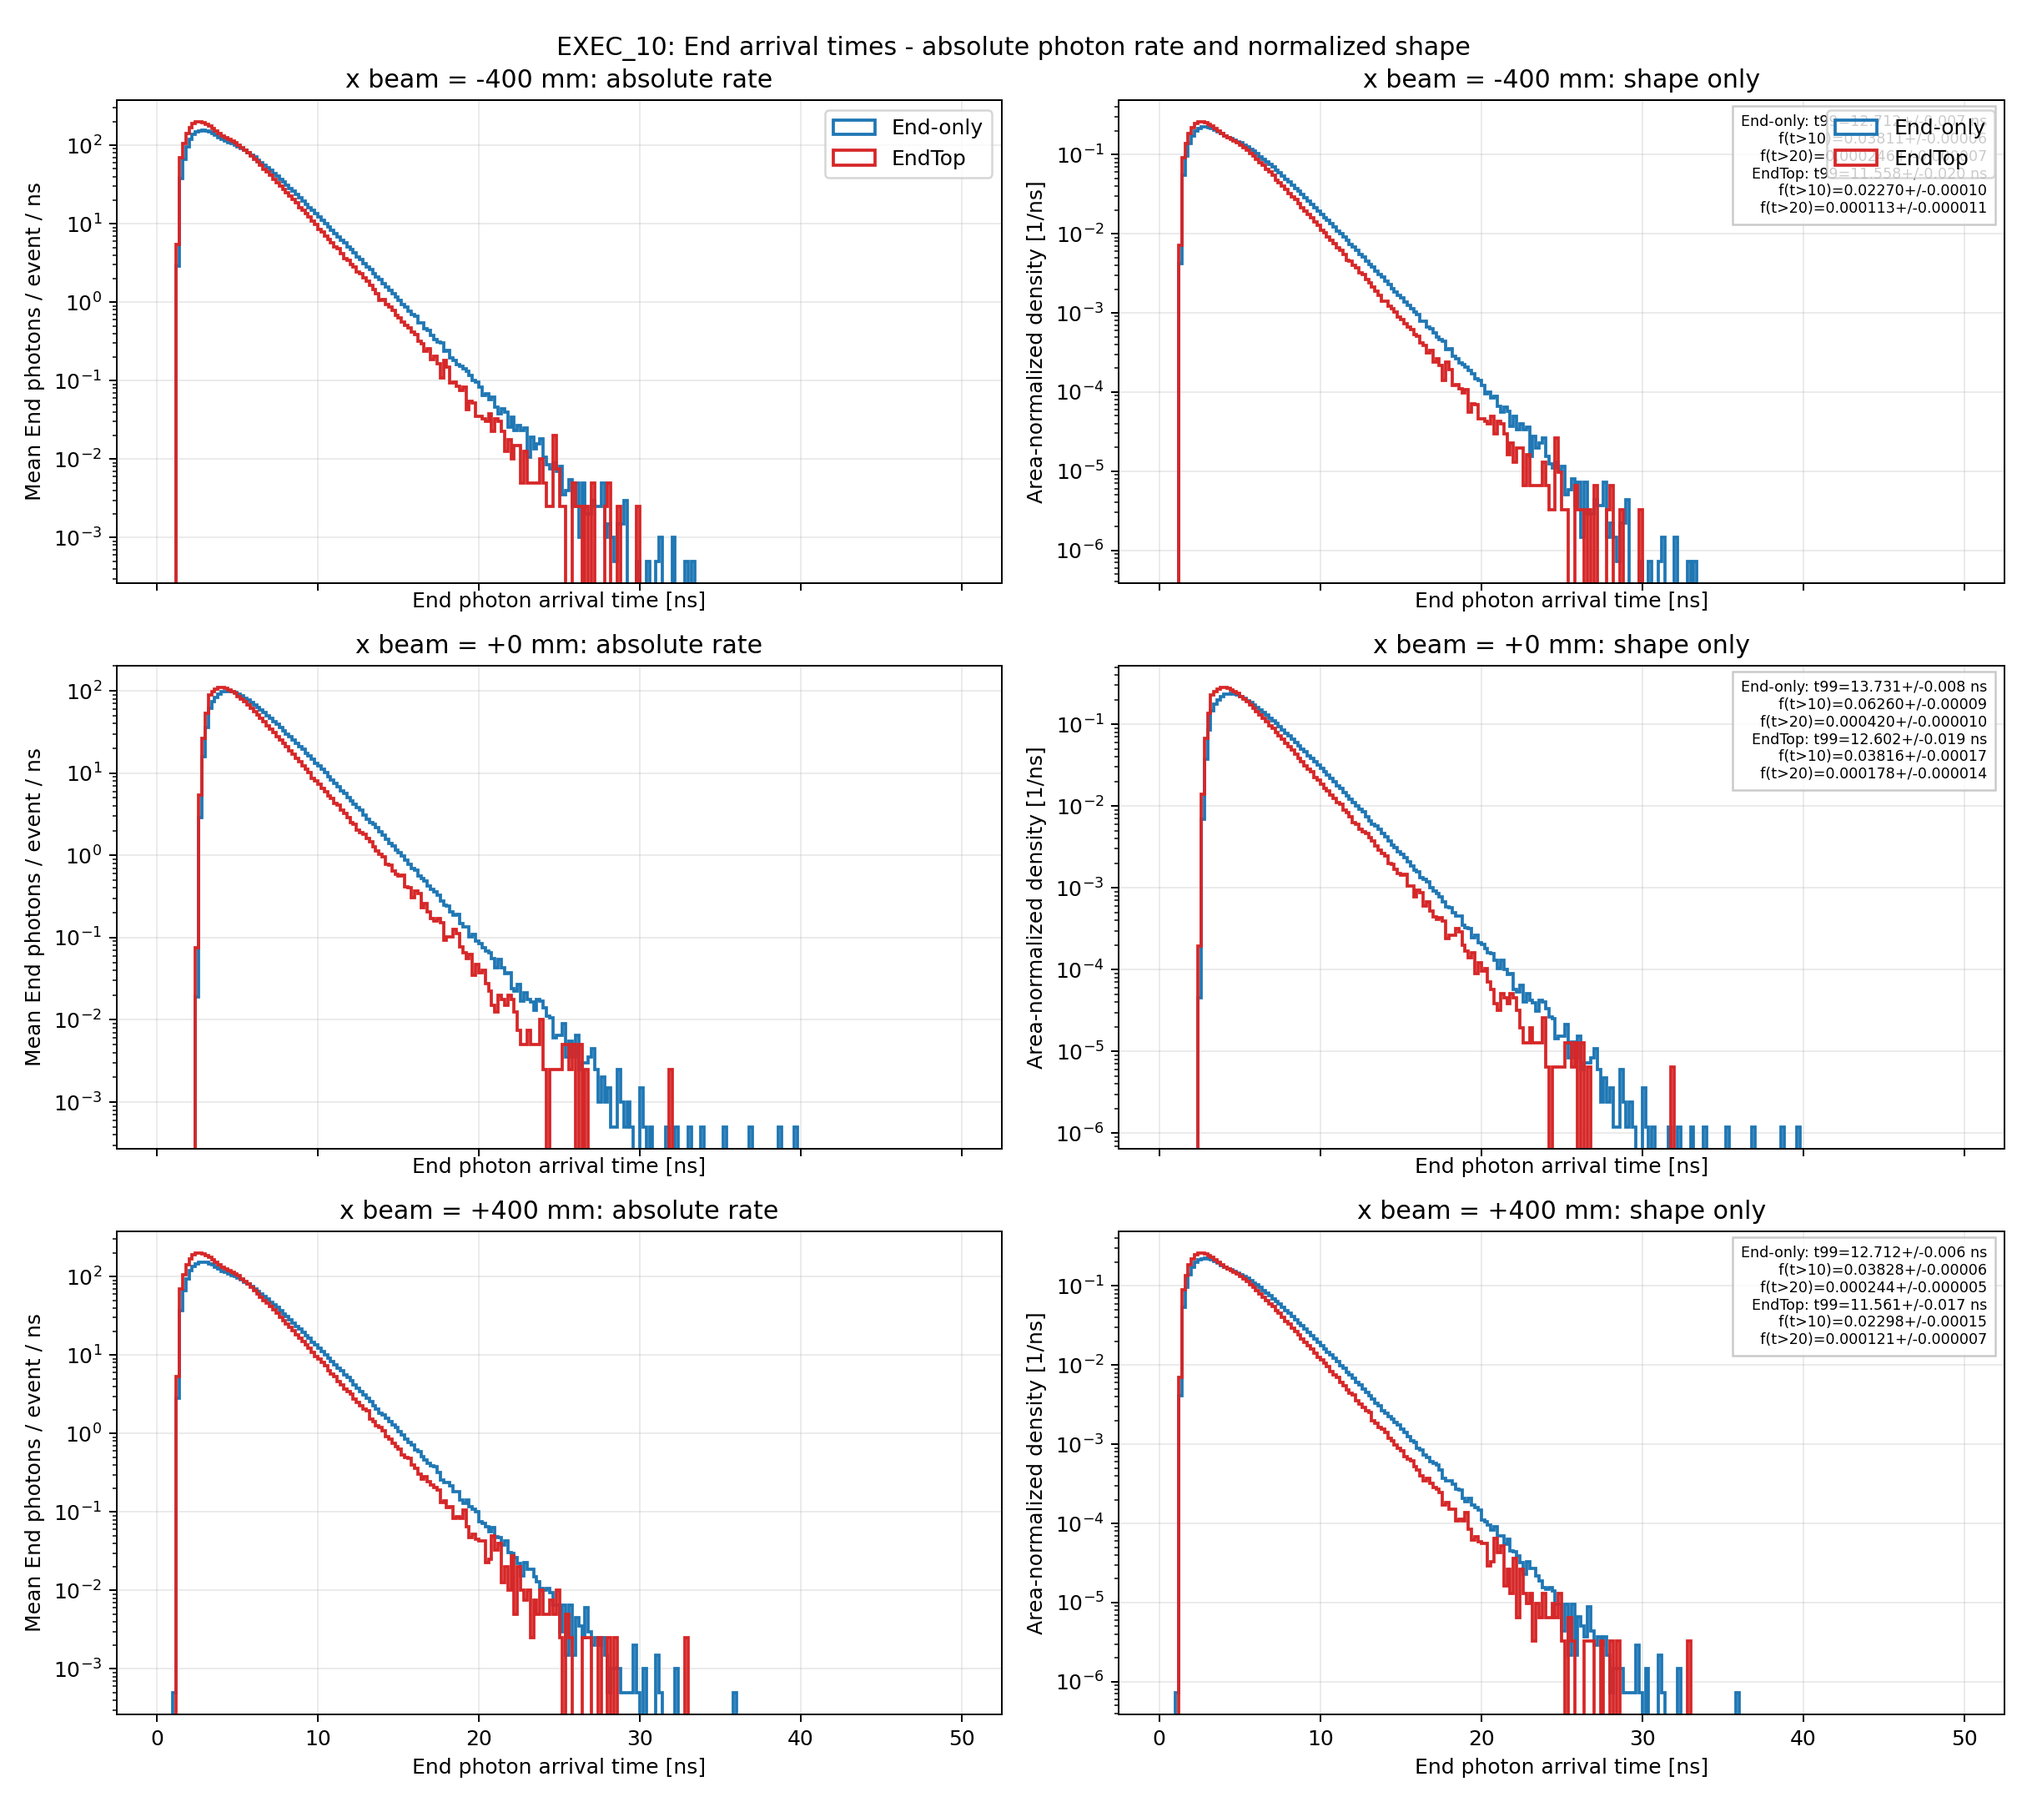
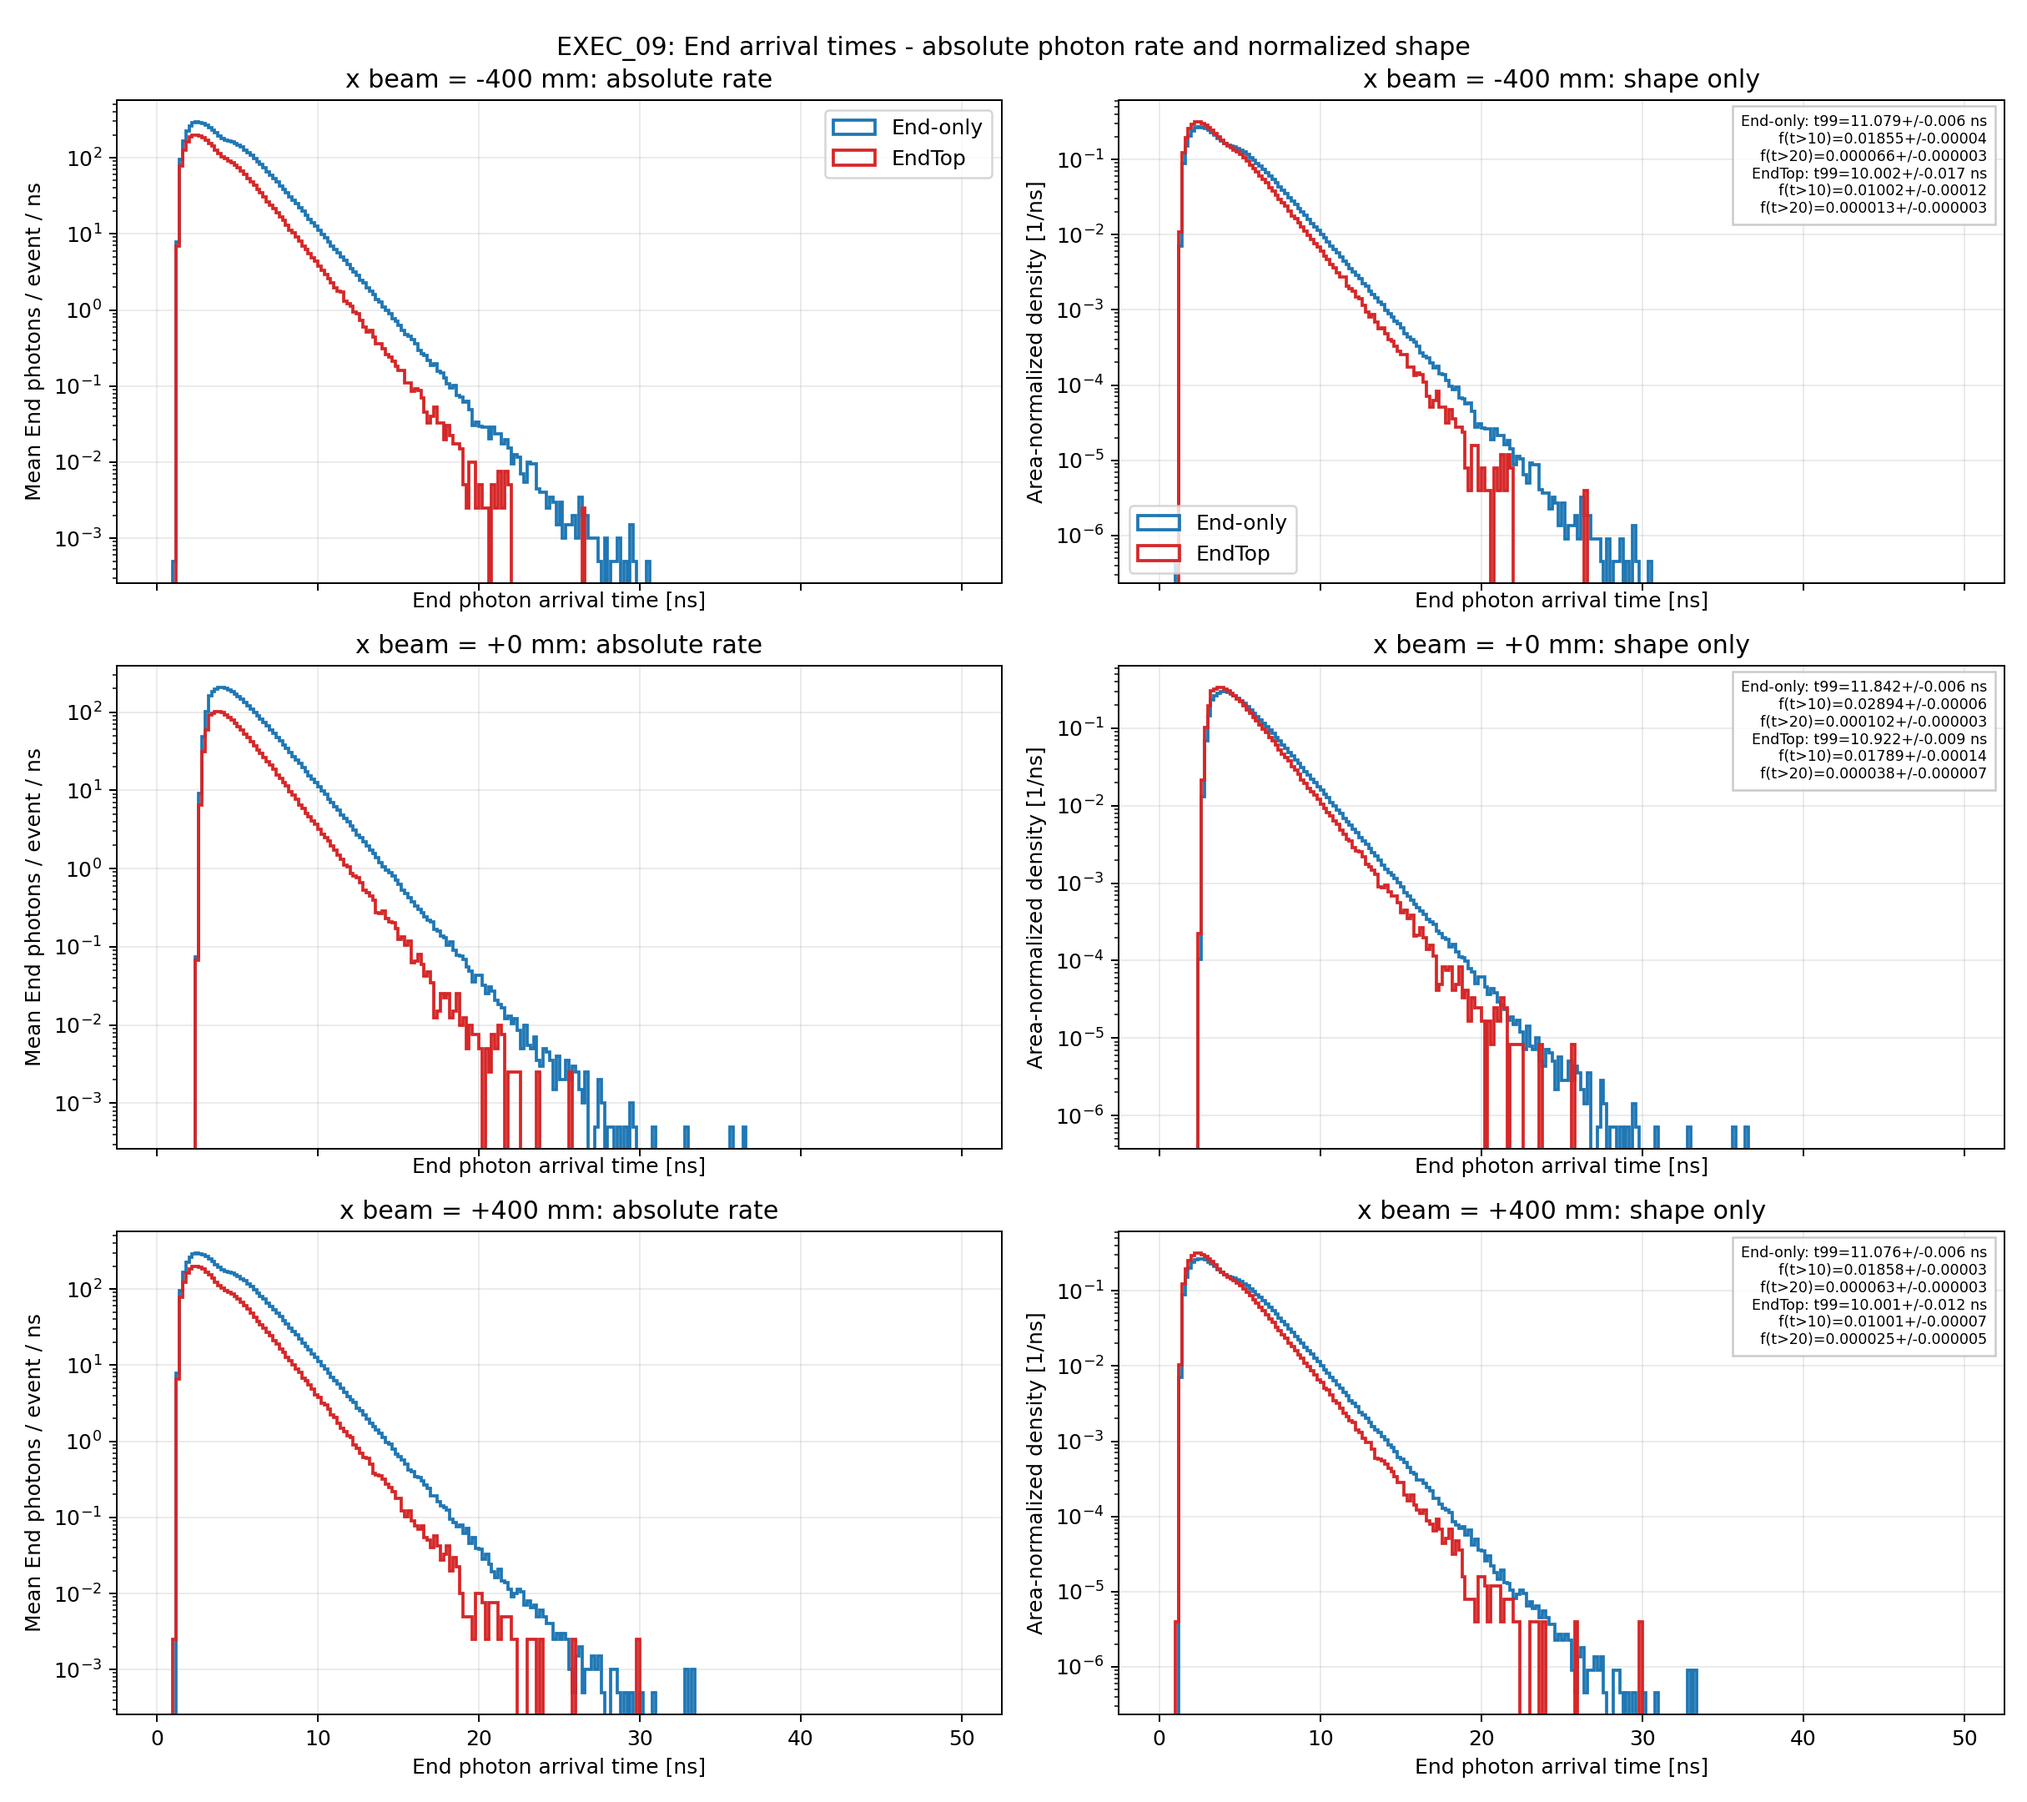
EXEC_14C/T3: regenerar EXEC_09 tail (figura/CSV/tablas EJ-230 auténticas)
Regenera análisis End-only desde ROOT EJ-230 y reemplaza la figura heredada; corrige título/leyenda en analysis/exec07/exec09_timing_mechanism.py:165.

Versiona métricas y tablas CSV-derived en results_ej230_analysis/csv y results_ej230_analysis/tables; el manifiesto reclasifica frames 48/119 como EJ230_SPECIAL_SIM.

diff --git a/scripts/generate_exec14b_tables.py b/scripts/generate_exec14b_tables.py
@@ -336,8 +336,8 @@ counting dominates only in the few-PE limit.
     late_sig = aggregate[["frac_gt10_difference_sigma", "frac_gt20_difference_sigma"]].abs().min().min()
     write(
         "endtop_endonly_tails.tex",
-        rf"Across $x=0,\pm400$ mm, EndTop minus End-only $t_{{99}}$ spans "
-        rf"{t99.min():.2f}--{t99.max():.2f} ns; the minimum absolute significance "
+        rf"Across $x=0,\pm400$ mm, EndTop minus End-only $t_{{99}}$ ranges from "
+        rf"{t99.min():.2f} to {t99.max():.2f} ns; the minimum absolute significance "
         rf"among the two late-fraction differences is {late_sig:.1f}$\sigma$.",
         [tails_path],
     )

diff --git a/results_ej230_analysis/tables/endtop_endonly_ratio.tex b/results_ej230_analysis/tables/endtop_endonly_ratio.tex
@@ -1,0 +1,8 @@
+% AUTO-GENERATED by scripts/generate_exec14b_tables.py; do not edit.
+% source-sha256: results_ej230_analysis/csv/exec08b_timing_gate.csv dcd4078767cdc995b56dd001a1679ef5f37fdb77dd4af0f7d31ad33e0a3b97cb
+-400 & L & $45.5\pm0.7$ & $37.2\pm0.3$ & $1.223\pm0.021$ \\
+-400 & R & $251.3\pm4.0$ & $128.0\pm0.9$ & $1.963\pm0.034$ \\
++0 & L & $106.5\pm1.7$ & $76.4\pm0.5$ & $1.394\pm0.024$ \\
++0 & R & $108.7\pm1.7$ & $75.3\pm0.5$ & $1.443\pm0.025$ \\
++400 & L & $258.2\pm4.1$ & $131.5\pm0.9$ & $1.963\pm0.034$ \\
++400 & R & $46.7\pm0.7$ & $37.9\pm0.3$ & $1.233\pm0.021$ \\

diff --git a/analysis/exec07/exec09_timing_mechanism.py b/analysis/exec07/exec09_timing_mechanism.py
@@ -165,8 +165,8 @@ def plot_overlays(
     for axis in axes[:, 1]:
         axis.set_ylabel("Area-normalized density [1/ns]")
     axes[0, 0].legend()
-    axes[0, 1].legend()
-    fig.suptitle("EXEC_10: End arrival times - absolute photon rate and normalized shape")
+    axes[0, 1].legend(loc="lower left")
+    fig.suptitle("EXEC_09: End arrival times - absolute photon rate and normalized shape")
     fig.tight_layout()
     output.parent.mkdir(parents=True, exist_ok=True)
     fig.savefig(output, dpi=180)

diff --git a/results_ej230_analysis/tables/window_dip_mechanism.tex b/results_ej230_analysis/tables/window_dip_mechanism.tex
@@ -1,0 +1,3 @@
+% AUTO-GENERATED by scripts/generate_exec14b_tables.py; do not edit.
+% source-sha256: results_ej230_analysis/csv/exec08b_window_dip_profiles.csv 43edf0f45cbb7347770fcd45fcb4a921dd5cbf54443fa6b5f2ee1af63209babe
+\item Empirically, a track at $\pm2$ mm from the window centre changes the local contrast by 7.9\% with minimum significance 9.3$\sigma$. The measured centered and midpoint contrast significances are -1.02$\sigma$ and -0.06$\sigma$, respectively.

diff --git a/results_ej230_analysis/tables/window_dip_test.tex b/results_ej230_analysis/tables/window_dip_test.tex
@@ -1,0 +1,7 @@
+% AUTO-GENERATED by scripts/generate_exec14b_tables.py; do not edit.
+% source-sha256: results_ej230_analysis/csv/exec08b_window_dip_profiles.csv 43edf0f45cbb7347770fcd45fcb4a921dd5cbf54443fa6b5f2ee1af63209babe
+Existing -650 & $24.96\pm2.57$ & $9.72$ \\
+A -652 center & $-2.44\pm2.39$ & $-1.02$ \\
+B -642 midpoint & $-0.19\pm3.04$ & $-0.06$ \\
+C1 -648 (+4 mm) & $13.27\pm2.73$ & $4.85$ \\
+C2 -654 mirror & $25.54\pm2.76$ & $9.26$ \\

diff --git a/results_ej230_analysis/tables/endtop_endonly_tails.tex b/results_ej230_analysis/tables/endtop_endonly_tails.tex
@@ -1,0 +1,3 @@
+% AUTO-GENERATED by scripts/generate_exec14b_tables.py; do not edit.
+% source-sha256: results_ej230_analysis/csv/exec09_tail_comparison.csv 83c1bdc79914622689cc53c9657533ee4718477c8752dfc64e21c3a015f39eb5
+Across $x=0,\pm400$ mm, EndTop minus End-only $t_{99}$ ranges from -1.08 to -0.92 ns; the minimum absolute significance among the two late-fraction differences is 6.6$\sigma$.

diff --git a/results_ej230_analysis/tables/window_dip_summary.tex b/results_ej230_analysis/tables/window_dip_summary.tex
@@ -1,0 +1,3 @@
+% AUTO-GENERATED by scripts/generate_exec14b_tables.py; do not edit.
+% source-sha256: results_ej230_analysis/csv/exec08b_window_dip_profiles.csv 43edf0f45cbb7347770fcd45fcb4a921dd5cbf54443fa6b5f2ee1af63209babe
+Local symmetric $\pm2$ mm effect: 7.9\% with significance 9.3--9.7$\sigma$; centered/midpoint contrast significances: -1.02$\sigma$/-0.06$\sigma$.

diff --git a/results_ej230_analysis/report/figure_manifest.md b/results_ej230_analysis/report/figure_manifest.md
@@ -61,7 +61,7 @@
 | 43 | Mean arrival time and FPT versus x | `figs/P6_tmean_vs_x.png` | True | True | EJ230_ANALYSIS | `analysis/exec07_photon_budget.py` |
 | 46 | Window-track collection effect: five-run test | `figs/exec08b_window_dip_profiles.png` | True | True | EJ230_SPECIAL_SIM | `analysis/exec07/exec08b_window_dip.py` |
 | 47 | Intrinsic End SUM4 timing | `figs/P7_deltaT_end.png` | True | True | EJ230_ANALYSIS | `analysis/exec07_photon_budget.py` |
-| 48 | End arrival-time tails without any time acceptance window: narrower EndTop is physical | `figs/exec09_tail_comparison.png` | True | True | FORBIDDEN_EJ204_COPY | `analysis/exec07/exec09_timing_mechanism.py` |
+| 48 | End arrival-time tails without any time acceptance window: narrower EndTop is physical | `figs/exec09_tail_comparison.png` | True | True | EJ230_SPECIAL_SIM | `analysis/exec07/exec09_timing_mechanism.py` |
 | 49 | Apparent timing slopes: no propagation estimator passes | `figs/exec10_velocity_estimators.png` | True | True | EJ230_ANALYSIS | `analysis/exec07/exec10_veff_diagnosis.py` |
 | 52 | Position x=-690 mm | `figs/muon_-690mm_geometry.png` | True | True | STATIC_GEOMETRY | `analysis/exec07_photon_budget.py` |
 | 52 | Position x=-690 mm | `figs/muon_-690mm_top_profile.png` | True | True | EJ230_ANALYSIS | `analysis/exec07_photon_budget.py` |
@@ -157,4 +157,4 @@
 | 112 | Position x=690 mm | `figs/muon_690mm_top_profile.png` | True | True | EJ230_ANALYSIS | `analysis/exec07_photon_budget.py` |
 | 113 | Run 31 $\|$ x = +690 mm $\|$ Photon arrival $\langle N(t)\rangle$ | `figs/exec11_arrival_690mm.png` | True | True | EJ230_ANALYSIS | `analysis/exec07/exec11_time_arrival.py` |
 | 115 | Backup: ID18 impact maps | `figs/exec08b_id18_impact_maps.png` | True | True | EJ230_SPECIAL_SIM | `analysis/exec07/exec08b_window_dip.py` |
-| 119 | Backup: EndTop versus End-only tail audit | `figs/exec09_tail_comparison.png` | True | True | FORBIDDEN_EJ204_COPY | `analysis/exec07/exec09_timing_mechanism.py` |
+| 119 | Backup: EndTop versus End-only tail audit | `figs/exec09_tail_comparison.png` | True | True | EJ230_SPECIAL_SIM | `analysis/exec07/exec09_timing_mechanism.py` |
